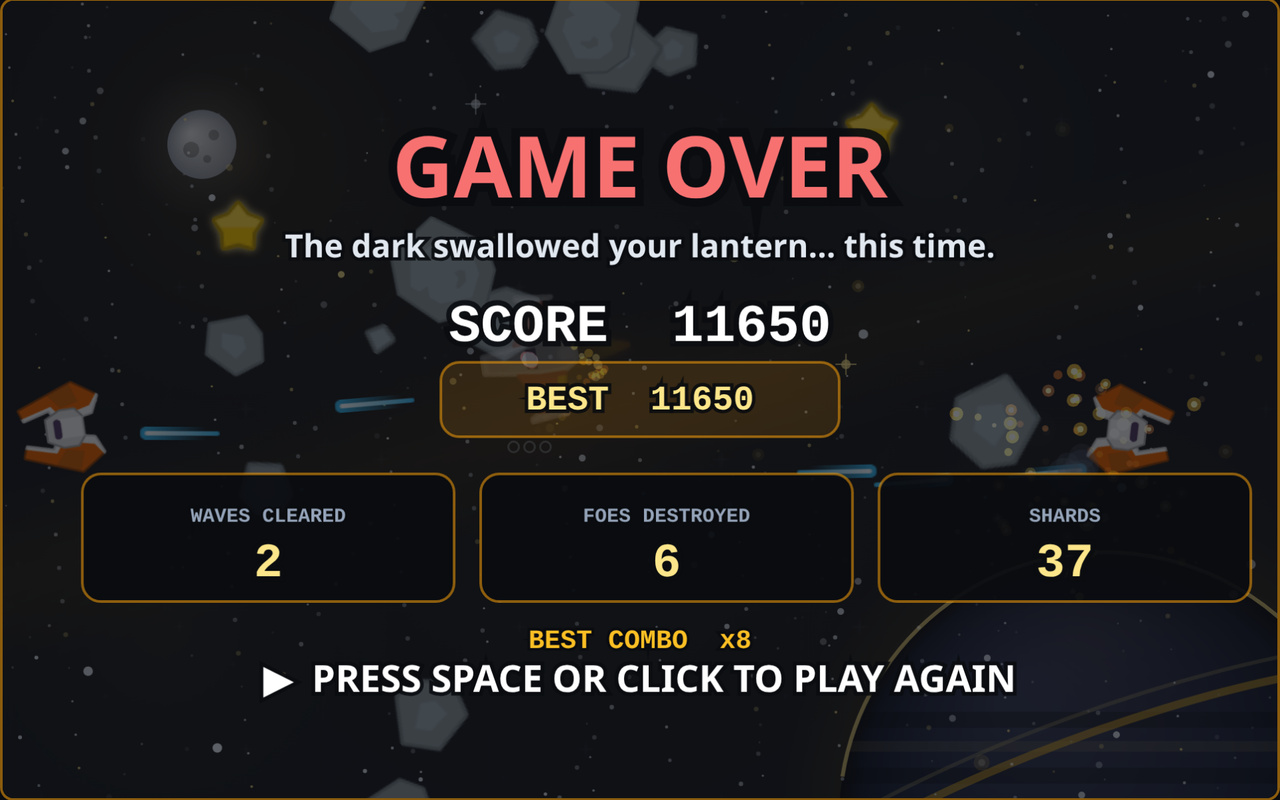
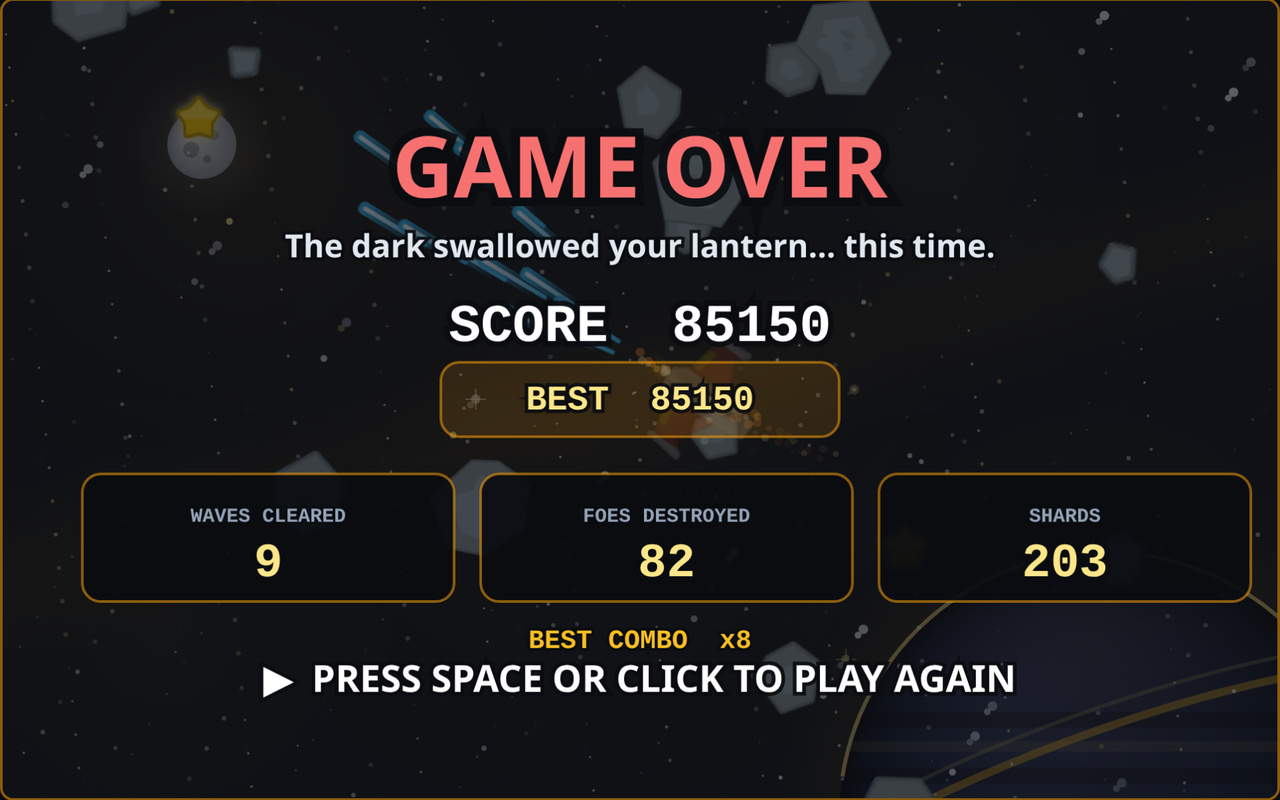
End shot: heroic late defeat — careful to wave 9, then reckless (seed 11 dies wave 10, 85,150)

diff --git a/game/src/shots.js b/game/src/shots.js
@@ -138,12 +138,13 @@ function autopilot(state, careful) {
       my -= ((threat.y - p.y) / (d || 1)) * 1.6;
     }
   }
-  // Composition pull (play staging only — the end shot must keep the
-  // original autopilot or its staged run dies too early): a gentle nudge
-  // away from the very edges so the picked frame is balanced, not a ship
-  // glued to a corner with an empty half-frame behind it. Small on purpose
-  // (0.45): the picker itself rejects edge frames, and a strong pull fights
-  // the shard-seeking and gets the staged ship killed early.
+  // Composition pull (staging only — the end run uses it too while it
+  // plays carefully; it goes away with the reckless switch at wave 9):
+  // a gentle nudge away from the very edges so the picked frame is
+  // balanced, not a ship glued to a corner with an empty half-frame
+  // behind it. Small on purpose (0.45): the picker itself rejects edge
+  // frames, and a strong pull fights the shard-seeking and gets the
+  // staged ship killed early.
   if (careful) {
     if (p.x < 170) mx += 0.45;
     if (p.x > 790) mx -= 0.45;
@@ -163,14 +164,27 @@ export function stageShot(name, world) {
     state.texts = []; // no stray "+50" peeking out from behind the title panel
     return { screen: SCREEN_TITLE, best: 0 };
   }
-  const careful = name === 'play';
+  // End shot: a HEROIC late defeat, not an early one. The old staging
+  // flew the original reckless autopilot from wave 1 and died in wave 3
+  // with score 11,650 — next to a play shot of wave 8 / 60,250 it read as
+  // a run that barely started. The run now plays CAREFULLY (same
+  // threat-dodging autopilot as the play shot) until wave 9, then goes
+  // reckless: late-wave density kills a careless ship fast, so the death
+  // lands in wave 9–10 with a high score instead of wave 3. Measured
+  // across seeds 1–12 (switch at 9): deaths in wave 9–10 on 8 seeds,
+  // victories on 4; seed 11 dies in wave 10 with score 85,150, 82 foes,
+  // 203 shards, max combo x8 — the pinned seed in shots.json. The switch
+  // is staging only: it never touches world.js, so gameplay and the
+  // autopilot verification scores are unchanged.
+  const END_RECKLESS_WAVE = 9;
   const limit = name === 'end' ? END_LIMIT_SECONDS : PLAY_LIMIT_SECONDS;
   let over = false;
   let victory = false;
   // Play shot: scan the run and keep the most readable, action-packed frame
   // (a fixed timestamp kept landing on a fresh wave with salvage 0/20 and an
   // empty field). The seed makes the scan deterministic, so the frame is
-  // reproducible. End shot: play until the run ends, as before.
+  // reproducible. End shot: play carefully to wave 9, then recklessly
+  // until the run ends (see END_RECKLESS_WAVE above).
   // Prefer frames where the ship faces the way it fires: a busy frame where
   // the ship just turned away from its own bolts reads as if it shoots
   // backwards, however high it scores. If no aligned frame exists, fall
@@ -216,6 +230,9 @@ export function stageShot(name, world) {
     return dot > 0.5;
   }
   for (let i = 0; i < limit / STEP; i += 1) {
+    // Careful is decided per step: the end run switches from careful to
+    // reckless the moment it reaches END_RECKLESS_WAVE (see above).
+    const careful = name === 'play' || (name === 'end' && state.wave < END_RECKLESS_WAVE);
     const pilot = autopilot(state, careful);
     let useNova = false;
     if (name === 'play' && !novaFired && state.novas > 0 && state.wave >= 8
